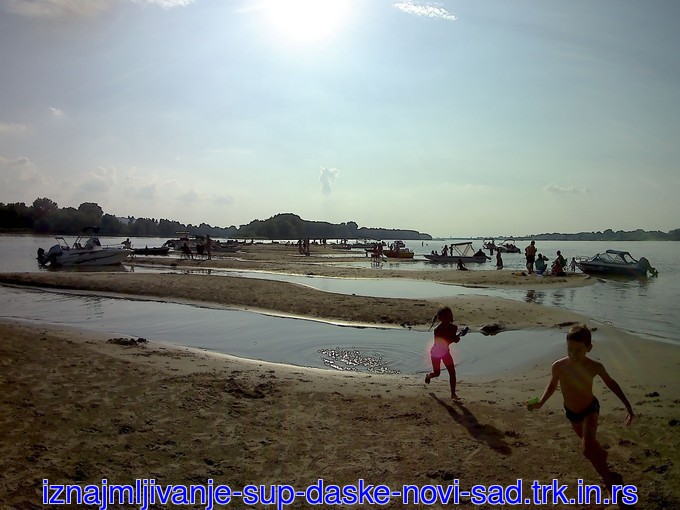
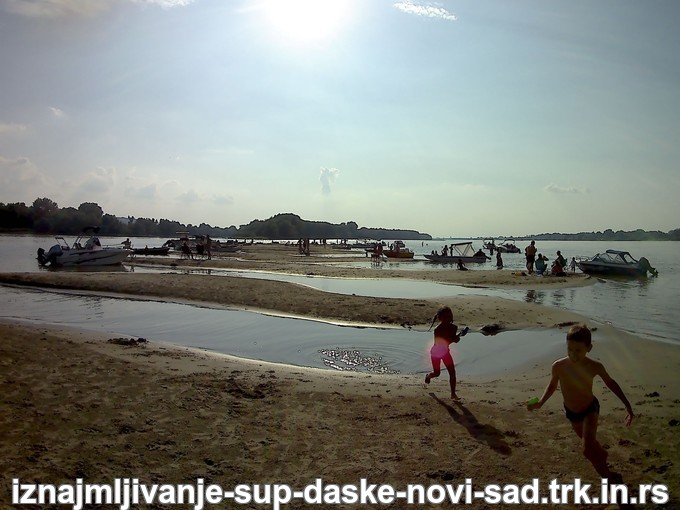
Update watermark

Changed region(s): [[0.0, 0.9412, 0.9882, 1.0]]

diff --git a/index.html b/index.html
@@ -21,3 +21,17 @@ layout: page
     <i>Vršimo dostavu na području Novog Sada</i>
   </div>
 </div>
+
+<hr>
+
+{% assign last_post = site.posts.first %}
+{%- assign date_format = site.minima.date_format | default: "%b %-d, %Y" -%}
+Poslenja vest <span class="post-meta">{{ last_post.date | date: date_format }}</span>
+<h3>
+  <a class="post-link" href="{{ last_post.url | relative_url }}">
+    {{ last_post.title | escape }}
+  </a>
+</h3>
+
+Pogledajte ostale vesti na stranici za <a href='/vesti'>VESTI</a>
+

diff --git a/_layouts/post.html b/_layouts/post.html
@@ -28,6 +28,6 @@ layout: default
 <center>
   <a href='/naruci' class='btn btn-success'>Rezervisite vasu SUP dasku</a>
   <br>
-  ili procitajte ostale <a href='/reference'>reference</a>
+  ili procitajte ostale <a href='/vesti'>vesti</a>
 </center>
 

diff --git a/_posts/2019-07-27-prvi-ns-SUPeri.html b/_posts/2019-07-27-prvi-ns-SUPeri.html
@@ -1,5 +1,6 @@
 ---
 layout: post
+title: Prvi NS SUP-eri
 ---
 
 <h2>Pocetak SUP sporta</h2>

diff --git a/_posts/2019-07-29-SUP-daska-kao-kajak.html b/_posts/2019-07-29-SUP-daska-kao-kajak.html
@@ -1,5 +1,6 @@
 ---
 layout: post
+title: SUP daska kao kajak
 ---
 
 <p>

diff --git a/_posts/2019-07-28-voznja-sa-decom.html b/_posts/2019-07-28-voznja-sa-decom.html
@@ -1,5 +1,6 @@
 ---
 layout: post
+title: Voznja sa decom
 ---
 
 <p>

diff --git a/_posts/2019-07-31-rakovacki-kanal-macak-sprud-i-ostala-pescana-ostrva.md b/_posts/2019-07-31-rakovacki-kanal-macak-sprud-i-ostala-pescana-ostrva.md
@@ -1,5 +1,6 @@
 ---
 layout: post
+title: Rakovacki kanal, Macak sprud i ostala pescana ostrva
 ---
 
 Kada vam dosade bazeni i druga mesta gde se placa ulaznica, probajte da se

diff --git a/vesti.md b/vesti.md
@@ -1,7 +1,7 @@
 ---
 layout: page
-title: Reference
-permalink: /reference/
+title: Vesti
+permalink: /vesti/
 ---
 
 <ul class="post-list">
